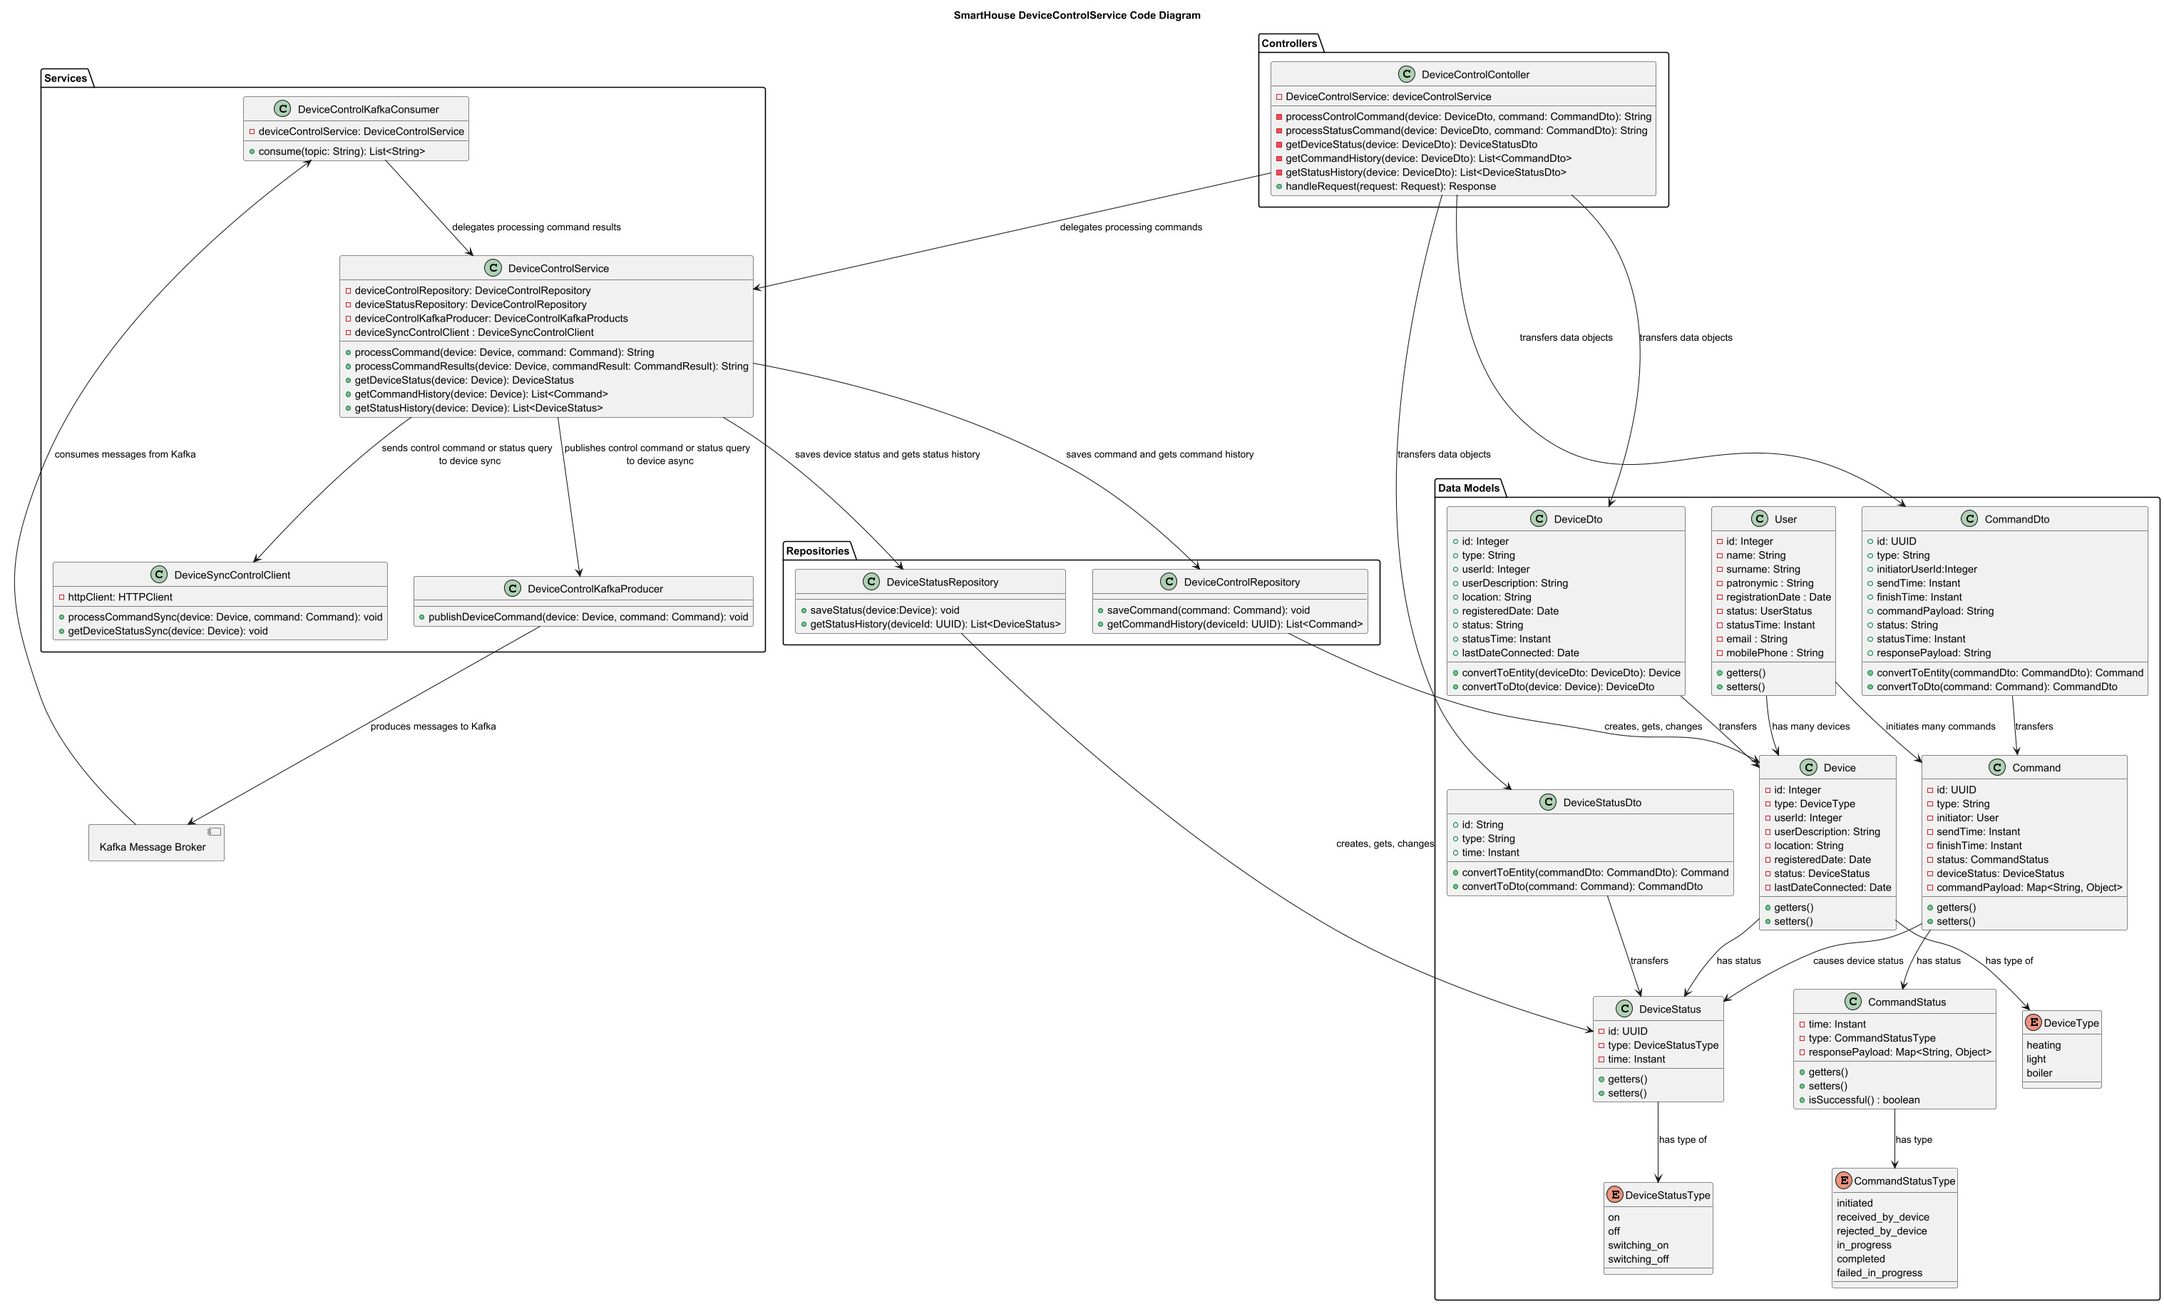
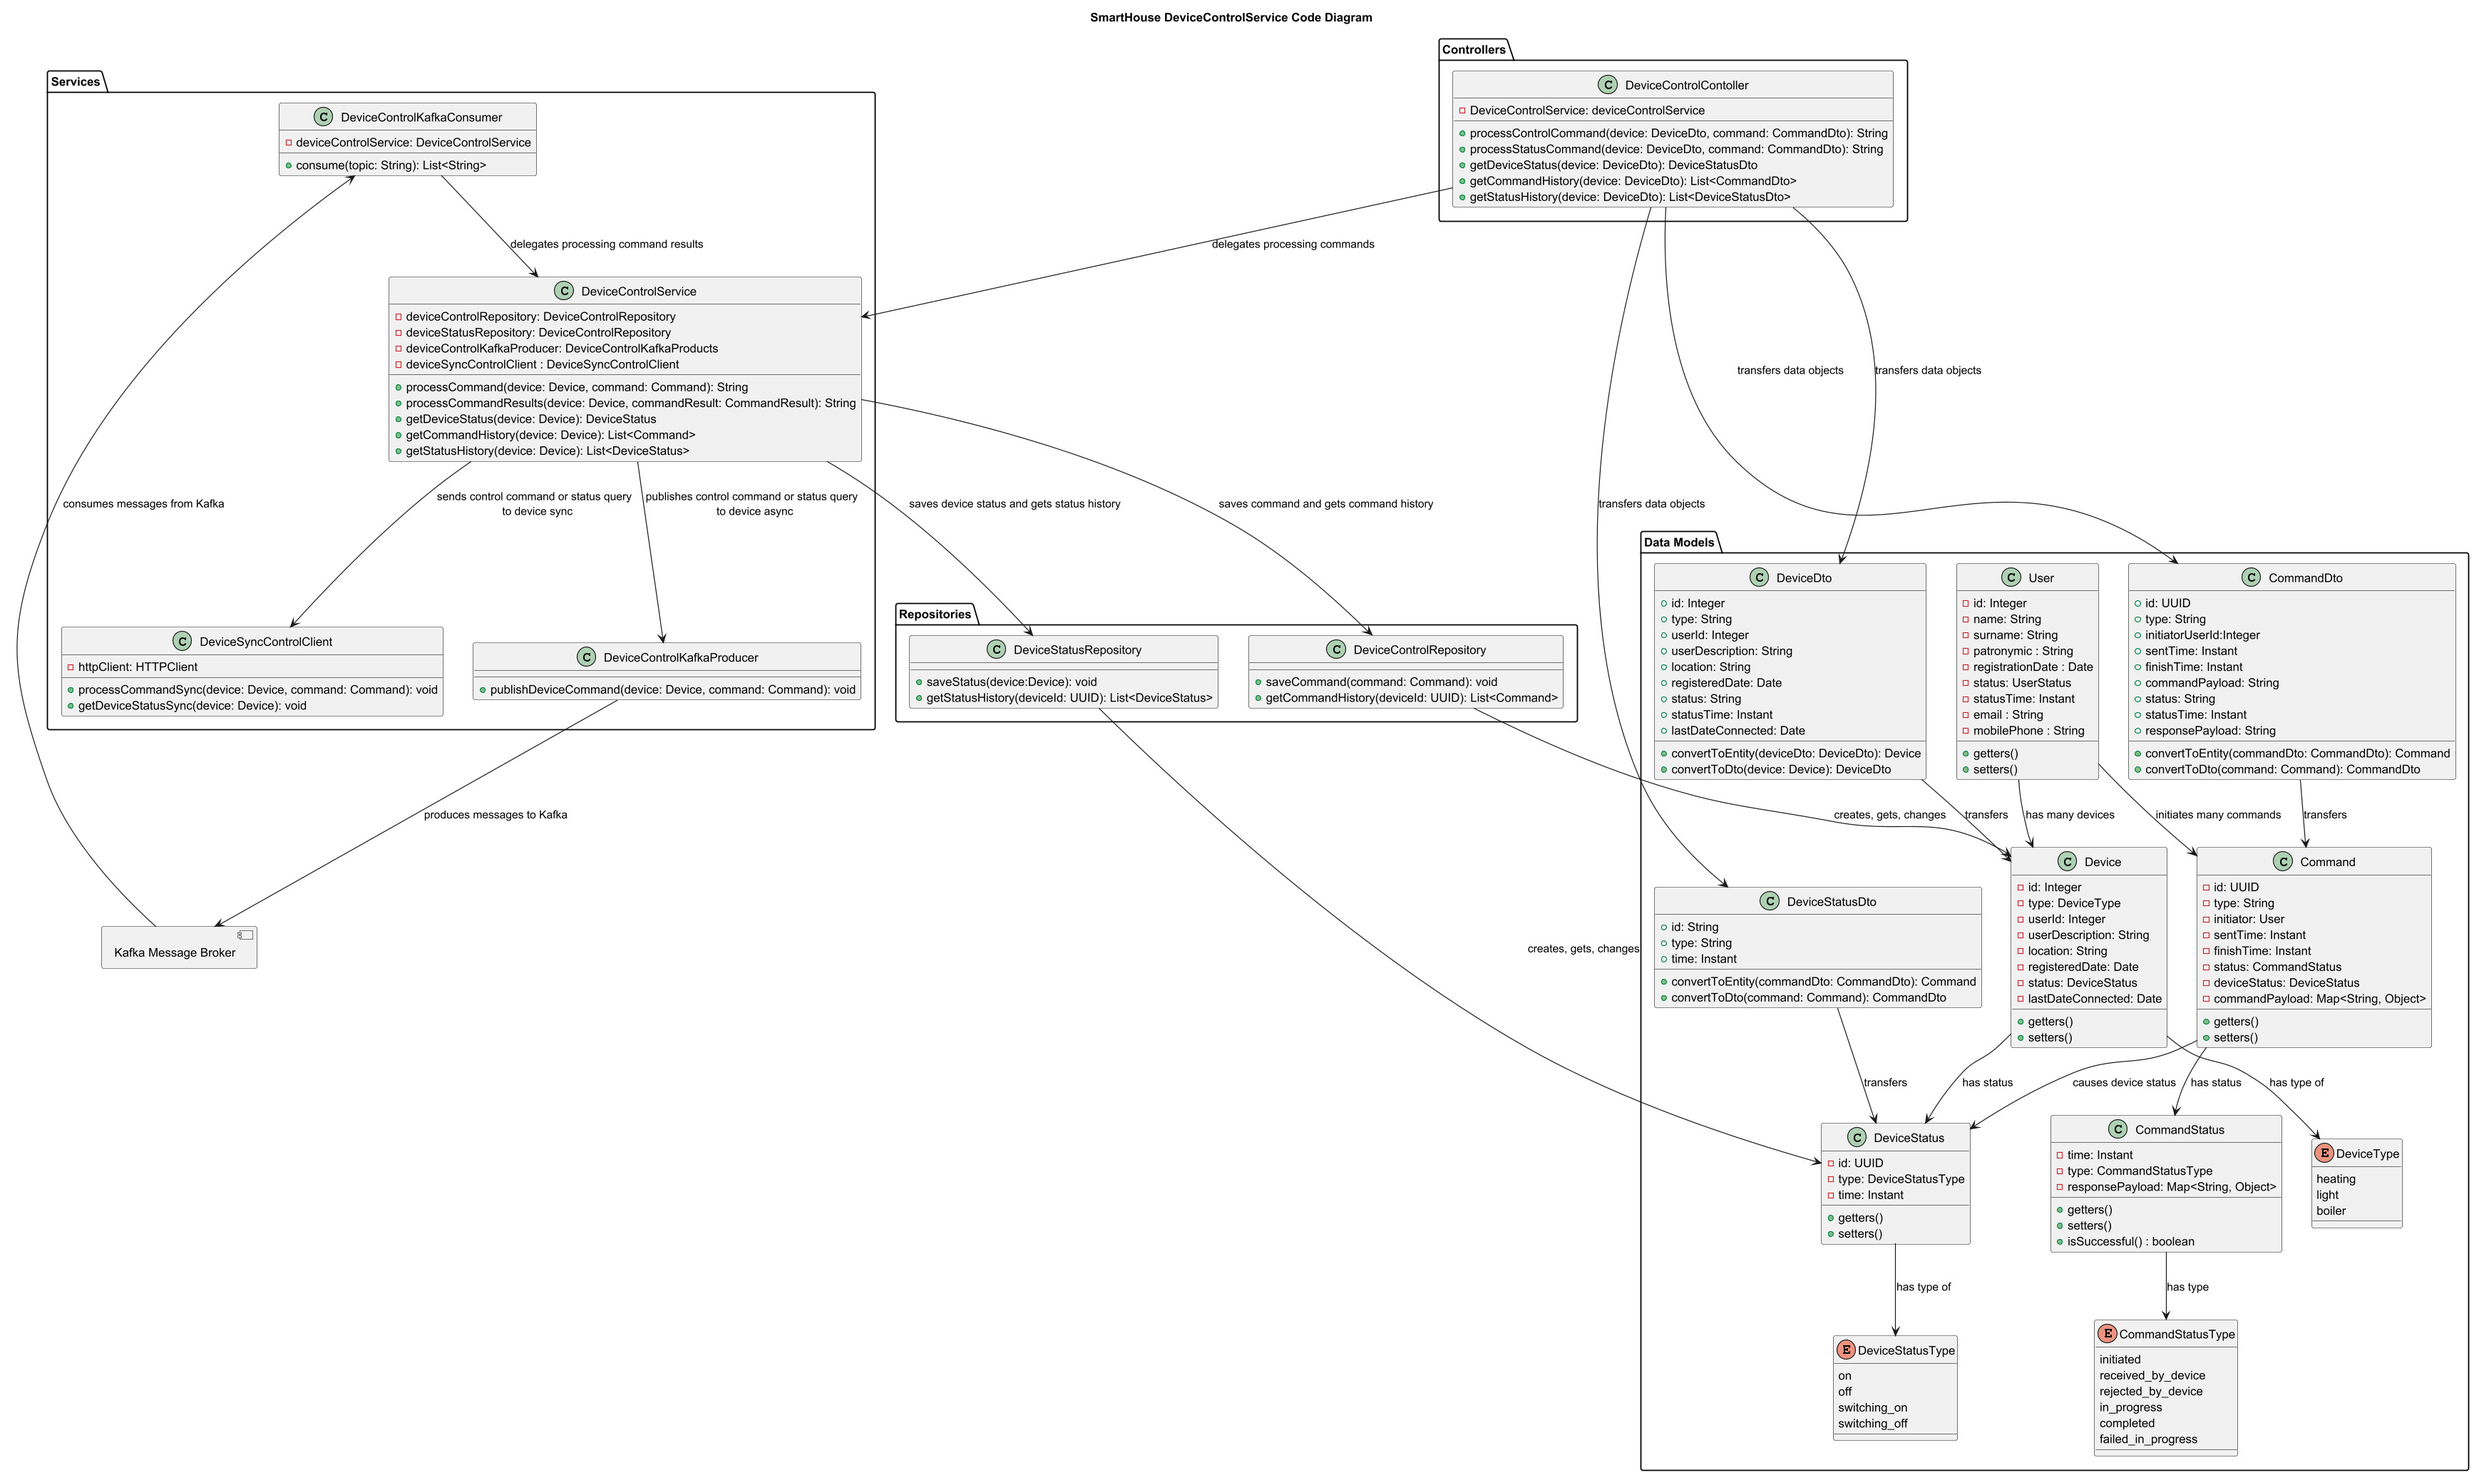
task 4

diff --git a/Project_template.md b/Project_template.md
@@ -116,16 +116,25 @@
 ![ER Диаграмма UserDatabase и DeviceControlDatabase](diagrams/entities/ER_UserDatabase_DeviceControlDatabase.jpg)
 
 
-#  ❌ Задание 4. Создание и документирование API
+# ✅  Задание 4. Создание и документирование API
 
 ✅ — вы выполнили задание.
 
-❌ — вы пропустили задание.
-
 ### 1. Тип API
 
-Укажите, какой тип API вы будете использовать для взаимодействия микросервисов. Объясните своё решение.
+Для запросов пользователей/специалистов от API Gateway и приоритетных синхронных вызовов между сервисами выбираю REST API 
+- здесь не предполагается высоких RPS и больших объемов данных
+- разработка проста и понятна  
+
+Для передачи между сервисами основного потока команд на устройства, а также полученной телеметрии выбираю брокер сообщений Kafka
+- снизить связанность между сервисами для независимого развертывания и повышения общей отказоустойчивости
+- данных телеметрии может быть много и нагрузка от них может быть неравномерна в течение дня
+- более гибкое масштабирование отдельных узлов системы
 
 ### 2. Документация API
 
-Здесь приложите ссылки на документацию API для микросервисов, которые вы спроектировали в первой части проектной работы. Для документирования используйте Swagger/OpenAPI или AsyncAPI.
+#### OpenAPI для DeviceControlService (DeviceControlController):
+[api-docs/DeviceControlController.yaml](./api-docs/DeviceControlController.yaml)
+
+#### AsyncAPI для DeviceControlService (DeviceControlKafkaProducer/DeviceControlKafkaConsumer):
+[api-docs/DeviceControlKafka.yaml](./api-docs/DeviceControlKafka.yaml)
